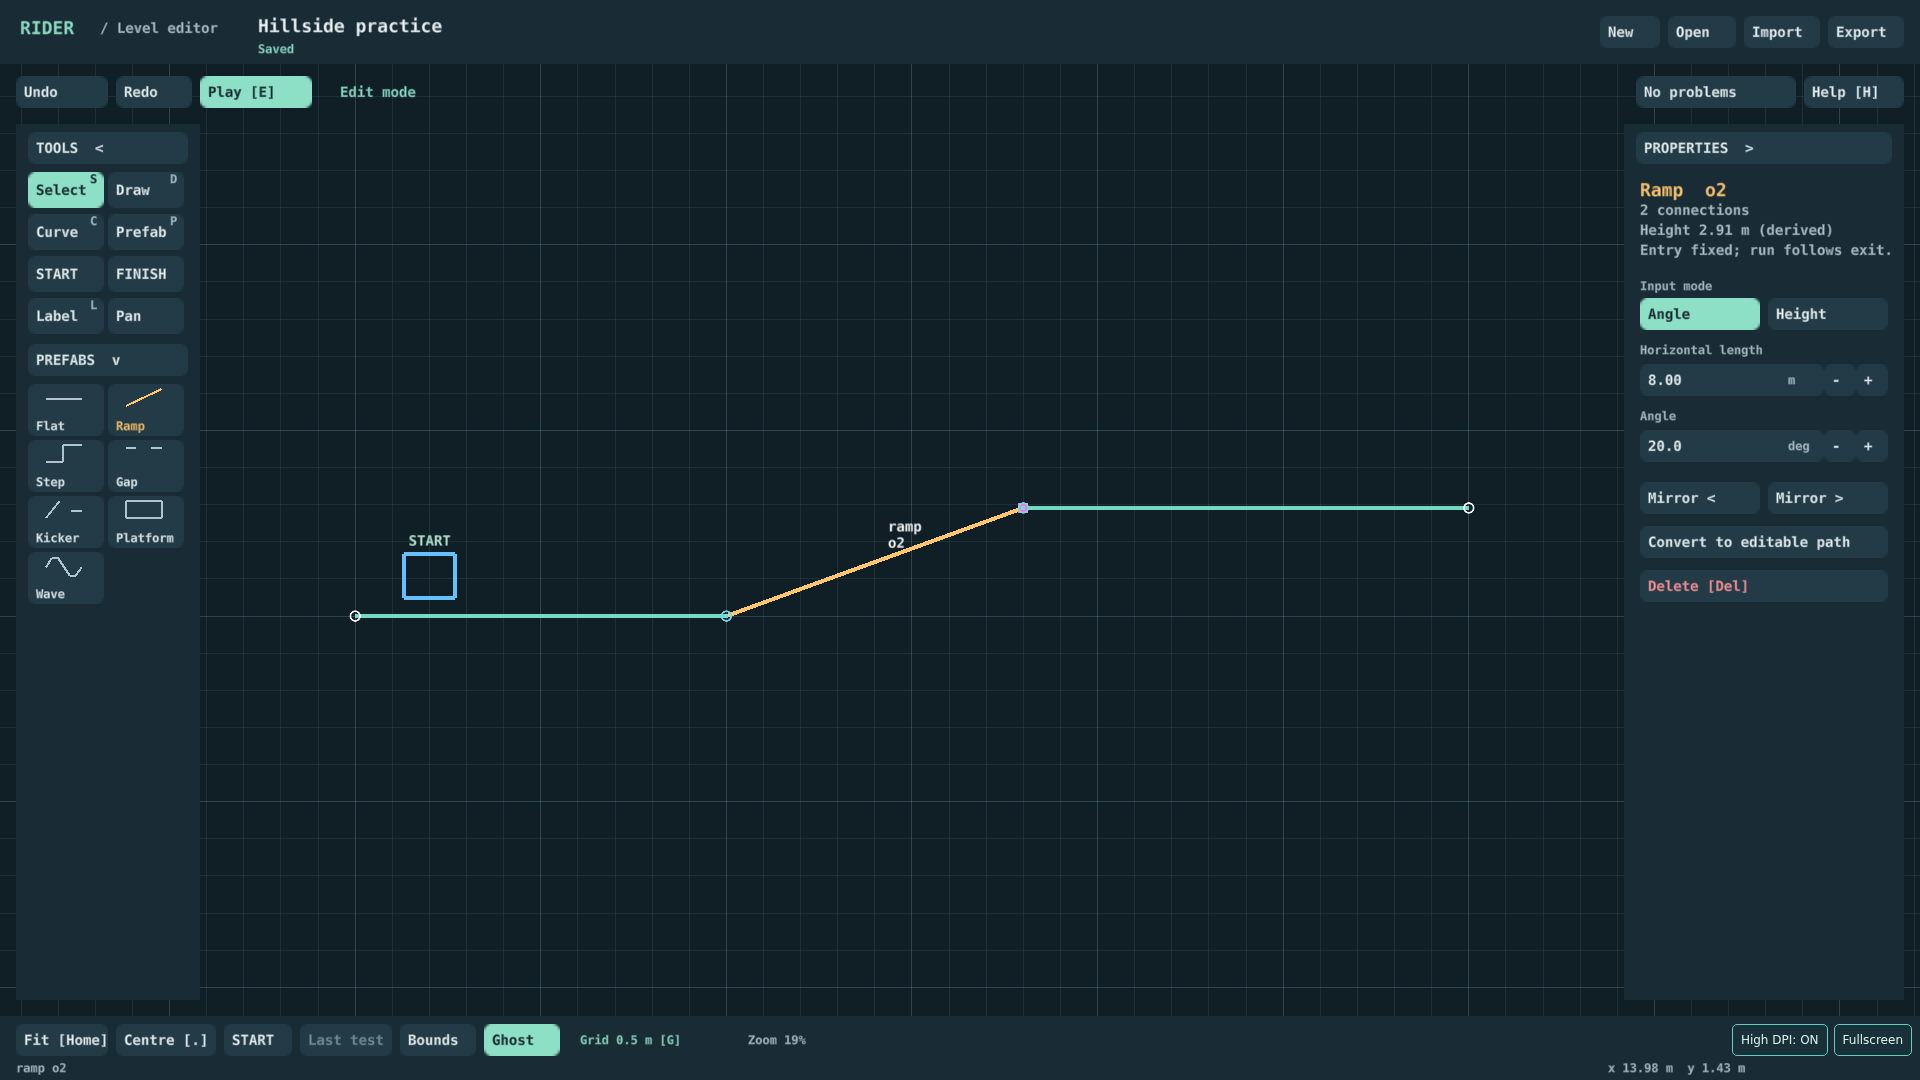
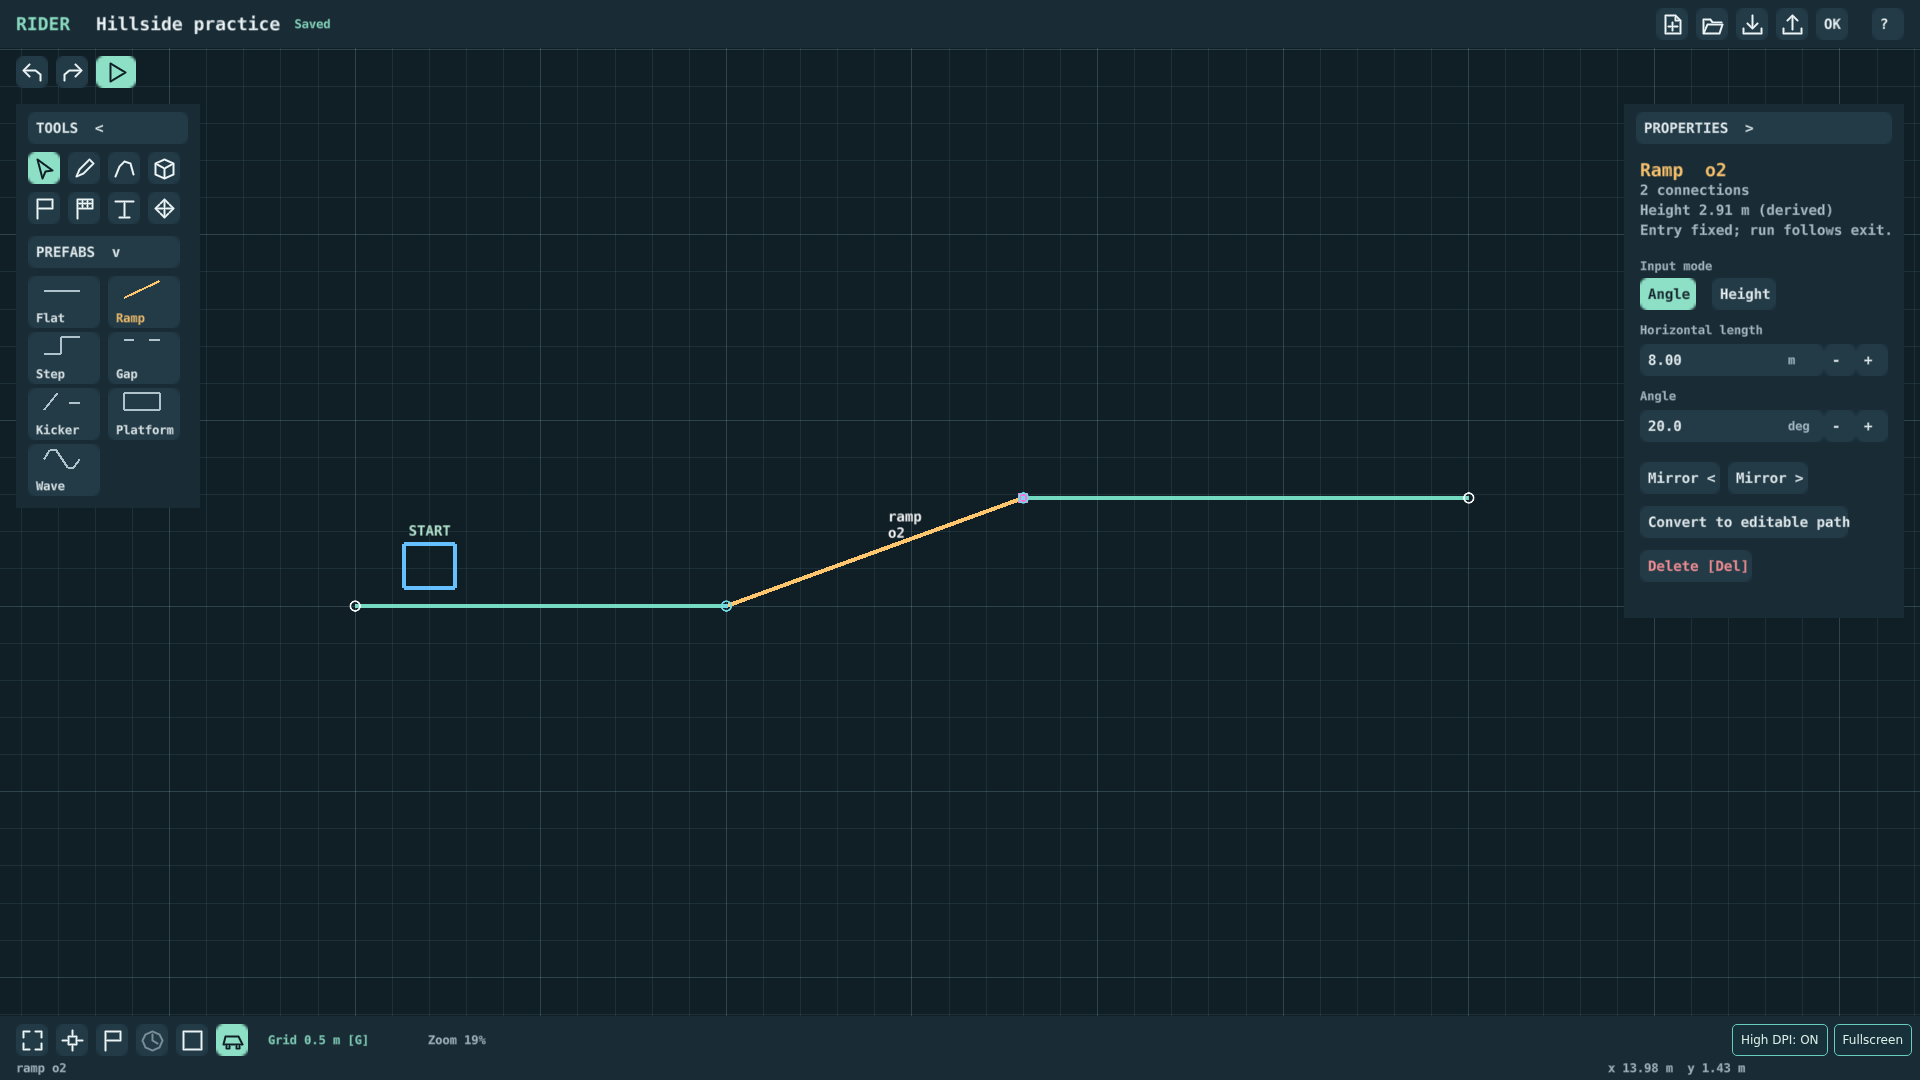
fix(editor): compact chrome and show blocking errors directly

diff --git a/tools/gym/smoke.py b/tools/gym/smoke.py
@@ -114,7 +114,7 @@ if args.case=='le5d':
     print(json.dumps(report));raise SystemExit(0)
 if args.case=='le6':
     report=json.loads((out/'polish-result.json').read_text())
-    assert report['status']=='PASS' and report['source_sha']==sha and report['run_id']==run_id and len(report['cases'])==13
+    assert report['status']=='PASS' and report['source_sha']==sha and report['run_id']==run_id and len(report['cases'])==14
     print(json.dumps(report));raise SystemExit(0)
 if args.case=='le1a':
     report=json.loads((out/'custom-result.json').read_text())

diff --git a/STATUS.md b/STATUS.md
@@ -6,7 +6,7 @@ Updated 2026-10-20. The only source for current progress, open acceptance and bl
 
 ## Now
 
-- **Editor A1b [#171](https://github.com/bongohorse/rider/issues/171) (Claudio GO 2026-10-21: “wenn du fertig bist mach weiter mit dem nächsten task”):** owner Codex, branch `feat/171-editor-ui`. Dependency #183 approved after the command-group swap, approval recorded in its issue; [PR #253](https://github.com/bongohorse/rider/pull/253) merged as `f34666d` with current-head required PASS; #183 closed. Approved layout implemented: fixed-size/collapsible panels, numeric fields/steps/inline errors, thumbnails/tooltips, selection/connection cues and DPR-aware chrome; existing editing/storage semantics retained. Pinned debug HTML5 builds and all eight editor suites PASS locally (le2/le3/le4/le5a/le5b/le5c/le5d/le6; le6 now includes four A1b cases and DPR 2). Baseline check + 55 bootstrap, 29 Python CI and 71 Node CI/mobile tests PASS. Measured unchanged limits: 628/640 GUI nodes; 800-segment fixture Edit/Play/replay sprites 804/806/810 of 1024. Layout screenshots (including DPR 2) inspected and retained in docs/editor-a/runtime; footer/browser controls no longer cover the cursor row. Pending numeric entry + step is one Undo commit, with a regression for prefab parameters and START speed; invalid pending input refuses the step. Final diff self-review complete; no independent review claimed. [PR #254](https://github.com/bongohorse/rider/pull/254) merged after exact-head required PASS. Main deployment exposed a reproducible unreadable-index library sync timeout (run 39611280521), fixed in [PR #255](https://github.com/bongohorse/rider/pull/255), owner Codex, branch `fix/171-ui-library-observation`, merged as f966acb after exact-head required PASS. The expanded library protocol also passes on Main; final CI/public deployment evidence is linked from that PR. The UI/debug observer now refreshes its library snapshot on document/save transitions or explicit library actions instead of rereading unreadable files every frame; the pinned loader requests IndexedDB sync on file close. Storage semantics and test assertions remain intact; the unreadable-index case additionally waits for idle sync with Open visible. Follow-up baseline check + 55 bootstrap, 29 Python CI and 71 Node CI/mobile tests PASS; all 12 le4 cases including unreadable-index sync with Open visible PASS on a pinned debug build (base f2d15ce plus working diff). Extended le6 also passes all 13 cases on the same local bundle, including both desktop viewports and DPR 2. Completed diff self-review, no independent review claimed. Human/device drive test NOT RUN. Stop after this slice for Claudio's build → select → parameter edit → drive test; #172/#173 have no GO.
+- **Editor A1b [#171](https://github.com/bongohorse/rider/issues/171) (Claudio GO 2026-10-21: “wenn du fertig bist mach weiter mit dem nächsten task”):** owner Codex; current feedback branch `fix/171-ui-feedback` (2026-10-21 GO: Claudio’s compact-UI and visible-error requests). Follow-up scope: single-line header with problems/help, content-height sidebars, compact icon controls, Ghost off by default, red blocking-error button, immediate source flash and an unobscured blocked-Play error banner. Feedback implemented with wheel/drag scrollbars for both panels (Claudio’s follow-up), stable desktop control sizes at 1280×480 and editable canvas below short panels. Baseline check + 55 bootstrap, 29 Python CI and 71 Node CI/mobile tests PASS; updated le6 all 14 cases PASS on the pinned working-diff build, plus le2/le4 PASS. Refreshed actual runtime captures include both desktop sizes, DPR 2, blocked Play and both overflowing sidebars. GUI 628/640 and 800-segment Edit/Play/replay sprite budgets 804/806/810 remain measured unchanged. Diff self-review completed; no independent review claimed. Current-head regression/CI and delivery evidence is tracked in the follow-up PR linked from #171; practical acceptance remains open. Original implementation branch `feat/171-editor-ui`. Dependency #183 approved after the command-group swap, approval recorded in its issue; [PR #253](https://github.com/bongohorse/rider/pull/253) merged as `f34666d` with current-head required PASS; #183 closed. Approved layout implemented: fixed-size/collapsible panels, numeric fields/steps/inline errors, thumbnails/tooltips, selection/connection cues and DPR-aware chrome; existing editing/storage semantics retained. Pinned debug HTML5 builds and all eight editor suites PASS locally (le2/le3/le4/le5a/le5b/le5c/le5d/le6; le6 now includes four A1b cases and DPR 2). Baseline check + 55 bootstrap, 29 Python CI and 71 Node CI/mobile tests PASS. Measured unchanged limits: 628/640 GUI nodes; 800-segment fixture Edit/Play/replay sprites 804/806/810 of 1024. Layout screenshots (including DPR 2) inspected and retained in docs/editor-a/runtime; footer/browser controls no longer cover the cursor row. Pending numeric entry + step is one Undo commit, with a regression for prefab parameters and START speed; invalid pending input refuses the step. Final diff self-review complete; no independent review claimed. [PR #254](https://github.com/bongohorse/rider/pull/254) merged after exact-head required PASS. Main deployment exposed a reproducible unreadable-index library sync timeout (run 39611280521), fixed in [PR #255](https://github.com/bongohorse/rider/pull/255), owner Codex, branch `fix/171-ui-library-observation`, merged as f966acb after exact-head required PASS. The expanded library protocol also passes on Main; final CI/public deployment evidence is linked from that PR. The UI/debug observer now refreshes its library snapshot on document/save transitions or explicit library actions instead of rereading unreadable files every frame; the pinned loader requests IndexedDB sync on file close. Storage semantics and test assertions remain intact; the unreadable-index case additionally waits for idle sync with Open visible. Follow-up baseline check + 55 bootstrap, 29 Python CI and 71 Node CI/mobile tests PASS; all 12 le4 cases including unreadable-index sync with Open visible PASS on a pinned debug build (base f2d15ce plus working diff). Extended le6 also passes all 13 cases on the same local bundle, including both desktop viewports and DPR 2. Completed diff self-review, no independent review claimed. Human/device drive test NOT RUN. Stop after this slice for Claudio's build → select → parameter edit → drive test; #172/#173 have no GO.
 
 
 - **Editor A1a [#183](https://github.com/bongohorse/rider/issues/183) (Claudio GO 2026-10-21):** start Milestone 7, Editor A – UI & Recovery; owner Codex, branch `docs/183-editor-layout`. Dependency #129 is closed as completed: Claudio's acceptance/closure decision is recorded in its Closure section (2026-10-21), without new trial observations or timings. Four PNG/SVG layout previews (build / selected Ramp at 1280×720 and 1920×1080), reproducible vector source and the screen-layout specification are in [PR #253](https://github.com/bongohorse/rider/pull/253). Visual inspection of all four, exact PNG dimensions, text contrast, local links, bootstrap check + 55 tests, 29 Python CI tests and 71 Node CI/mobile tests PASS. Layout revision requested by Claudio (2026-10-21): swap the command groups between rows/positions; New/Open/Import/Export now occupy the upper right, Undo/Redo/Play the second row left, in all four previews and the specification. GUI allocation is an estimate (606/640), not a runtime measurement. No game/GUI code changed. Final diff self-review complete; no independent review claimed. CI evidence is tracked in the PR; Claudio approved the revised layout and instructed the next task on 2026-10-21; approval recorded on #183. Merged as `f34666d` with green required; #183 closed. A1b GO is recorded above. This explicit GO supersedes the earlier Editor A scheduling hold for this task only.

diff --git a/docs/contracts/level-editor.md b/docs/contracts/level-editor.md
@@ -78,7 +78,7 @@ A start speed is an explicit option. Invalid positions (inside geometry, no surf
 **R18 Tool scope and usability.** Keep the in-game Defold/Lua/GUI direction and the small HTML file helper. The editor research in #118 is not approval for Qt/Electron, a universal editor, plugins, multiplayer editing or a framework rewrite. Test the actual build → drive → change → Undo → save → reopen workflow with Claudio. Good navigation, readable controls/units, clear selection, cancellable previews and actionable warnings take precedence over a larger asset library. Reusable custom templates later need an explicit independent-copy versus linked-instance policy; no implicit retroactive changes to old courses.
 
 ## Screen layout (desktop, Defold GUI)
-- **Header:** level name and persistence status on the left; New · Open (my levels / templates) · Import · Export on the right. **Command row:** Undo · Redo · **Play [E]** on the left; problems · Help on the right (A1b, #171).
+- **Header:** level name and persistence status on one line; New · Open (my levels / templates) · Import · Export icons, problems and Help on the right. **Command row:** compact Undo · Redo · **Play [E]** icons on the left; no redundant Edit mode label (Claudio feedback to A1b, #171).
 - **Left tool palette:** Select (S) · Draw (D) · Curve (C) · Prefab (P) · START · FINISH · Label (L, LE6b) · Pan
 - **Right panel:** properties of the selection (numeric fields: x, y, angle, length, height…), or level properties (name, start speed) when nothing is selected
 - **Bottom status:** View row (Fit, Centre, START, Last test, Bounds; LE6a; Ghost, Help; LE6b) · cursor x/y in metres · active snaps · zoom; the warning count (click to list) sits in the top bar
@@ -188,6 +188,9 @@ Implements the revised [#183](https://github.com/bongohorse/rider/issues/183) la
 - Tooltips appear after 500 ms of hover or field focus and stay inside the uncovered workspace. Prefab cards use small GUI line diagrams. Free ends have hollow rings; connected joints add a square centre and cyan tint. Selection uses amber; placement previews are dashed mint and explicitly say `Preview`. Readouts use body-size text, wrap and clamp within the uncovered canvas. Rounded control masks and end rings are generated once as tiny GUI textures, with no sprite components or external artwork.
 - Help, Open, compatibility and problem lists reuse the same UI pool and capture underlying edits. Clicking a problem row closes the list before selecting/centring its source; the message remains visible. Open is also offered inside the problem list. The help body scrolls if it does not fit. New document framing waits for the new edit world's mapping, then places START inside the free workspace. Collapse, scrolling and these view changes do not change the source or Undo history.
 - The editor sends the pinned default renderer's `clear_color` message for the petrol canvas and restores the configured game clear colour on exit. It does not replace the renderer, add a world, change physics or run a second tick loop.
+- **Claudio's 2026-10-21 feedback revision:** the header is 48 px high, with title/status on one line and problems/help beside the file icons. Undo/Redo/Play use compact icons in the next row; there is no Edit mode label. Familiar file/tool/navigation actions use code-native 24 px line icons in 32 px controls with text tooltips; prefab thumbnails keep their names and parameter fields keep labels/units. Text action buttons fit their labels instead of filling the inspector width.
+- Both sidebars end after their content. Their headings stay fixed; if the body exceeds the window height, it scrolls by wheel or a draggable scrollbar. Hidden rows take no input; areas below a short sidebar remain visible and editable. Short desktop windows retain control sizes (verified at 1280×480) rather than shrinking the UI to fit the height. Widths below the declared desktop sizes retain the existing scaled desktop fallback; no mobile authoring acceptance is claimed.
+- A blocking error makes the header problem control red. A newly reported located error flashes its source without changing selection/history. Blocked Play selects and centres the first error's source when known, flashes the source geometry/START and shows a direct, wrapped red `Cannot play: …` banner in the workspace. Unlocated errors still show the banner and never invent a source. The banner follows the current error, clears once fixed, and never carries into another document; Undo restoring an error restores attention. Ghost starts **off** and remains an explicit view toggle.
 - Open and debug inspection reuse a library snapshot between document/save transitions; explicit Open/delete actions refresh it. An unreadable index must not be reread every frame: the pinned loader requests an IndexedDB sync even when a read closes a file (see Storage below). `le4` checks idle sync with that error both in the editor and with Open visible, while retaining the index/file preservation assertions.
 
 **Measured budget in the extended `le6` browser protocol** (not a promise about untested device performance):
@@ -539,7 +542,7 @@ Second part of LE6 ([#129](https://github.com/bongohorse/rider/issues/129)). Imp
 - **Vehicle silhouette (R10):**
   - **Ghost:** with the Select tool over empty canvas inside the free area, a faint upright vehicle (chassis, two wheels, rider: 6 GUI boxes) shows where **F** would start a test run (Shift: **Shift+F** drop here). It uses `editor_doc.test_start`, the same rule as F, so F starts exactly at the ghost (`le6`).
   - A refused position shows the ghost in red at the cursor with the reason in the readout (`F: refused (no surface below the cursor)`).
-  - The ghost is hidden over objects, while dragging, with a field, the Open dialog, the warning list or help open, and when **Ghost** in the View row is off (default on; view only).
+  - The ghost is hidden over objects, while dragging, with a field, the Open dialog, the warning list or help open, and when **Ghost** in the View row is off (default off; view only).
   - The last launched test start (LE6a) is shown as a fainter silhouette.
 - **Readouts:** every position reads `x … m  y … m` (curve anchors, prefab entry/exit, placement preview, labels). A hull shows its extent. Dragging START or FINISH shows the position; for START it also shows the clearance check Play uses (`| overlaps line o1 (Play blocked)`) before release.
 - **Budget (R7), measured in `le6`:** 596 of 640 `max_nodes` with 12 templates (+23 over LE6a: 2 silhouettes of 6 boxes, the help overlay with 5, the Ghost and Help buttons and the Label tool). The View row now ends at 600 px against the page buttons at 1092 px (1280 × 720), 391 against 656 (844 × 390) and 183 against 202 (390 × 844).

diff --git a/docs/editor-a/runtime/README.md b/docs/editor-a/runtime/README.md
@@ -1,8 +1,8 @@
 # Implemented Editor A UI
 
-Actual HTML5 debug screenshots for [#171](https://github.com/bongohorse/rider/issues/171), captured by the extended `le6` browser protocol. The [approved static designs](../README.md) remain separate. Behaviour and measured budgets are specified in the [editor contract](../../contracts/level-editor.md#editor-a1b-implementation-171).
+Actual HTML5 debug screenshots for [#171](https://github.com/bongohorse/rider/issues/171), captured by the extended `le6` browser protocol. These captures include Claudio’s 2026-10-21 compact-header, sidebar, icon and error feedback. The [original approved static designs](../README.md) remain separate. Behaviour and measured budgets are specified in the [editor contract](../../contracts/level-editor.md#editor-a1b-implementation-171).
 
-**Contents:** [Desktop layouts](#desktop-layouts) · [HiDPI and scrolling](#hidpi-and-scrolling) · [Capture identity](#capture-identity)
+**Contents:** [Desktop layouts](#desktop-layouts) · [HiDPI and scrolling](#hidpi-and-scrolling) · [Errors and short windows](#errors-and-short-windows) · [Capture identity](#capture-identity)
 
 ## Desktop layouts
 
@@ -26,6 +26,16 @@ The Kicker's seventh parameter is reached by scrolling its inspector. The wheel 
 
 ![Seven-parameter inspector](editor-a-seven-parameters.png)
 
+## Errors and short windows
+
+A blocking error makes the header indicator red and flashes its source. Play immediately shows the error in a red banner and focuses its source, without requiring a second click.
+
+![Blocked Play and error source](editor-a-blocked-play.png)
+
+At 1280×480, both sidebar bodies scroll by wheel or by dragging their scrollbars. Controls retain their desktop size. At the normal heights, short sidebars stop after their content and leave the canvas below them editable.
+
+![Both sidebars scroll at 1280 by 480](editor-a-scrollbars-1280x480.png)
+
 ## Capture identity
 
-Defold 1.14.0 (`a81dbb0478e8b73931dc2d671563204f6ac0ef82`), Playwright Chromium `156.0.8078.4` on Linux. The local debug bundle was built from base `f34666d3dacc8699734a653fdd686916300840ce` plus this task's working UI diff. Capture run `6a9a2a02-5559-4a81-bdf1-ffa381e26bc1`, `tools/gym/smoke.py --bundle artifacts/171-debug-17 --output artifacts/171-le6-17 --case le6`. Build inventory/engine guard and JSON results are retained locally in those artifact directories; PR-head CI independently rebuilds and runs the same protocol. Local working-diff captures are not claimed as committed-head or deployed-build evidence. Pointer/keyboard input is synthetic; these images do not establish physical-device behaviour or Claudio's practical acceptance.
+Defold 1.14.0 (`a81dbb0478e8b73931dc2d671563204f6ac0ef82`), Playwright Chromium `156.0.8078.4` on Linux. The local debug bundle was built from base `c6fed8541110c662f2de479b7bd9ee8a0becb880` plus this task's working UI diff. Capture run `5597e102-4bbc-456b-ba25-d4afa5342593`, `tools/gym/smoke.py --bundle artifacts/171-feedback-debug-verified --output artifacts/171-feedback-verified-le6 --case le6` (14 cases PASS). Build inventory/engine guard and JSON results are retained locally in those artifact directories; PR-head CI independently rebuilds and runs the same protocol. Local working-diff captures are not claimed as committed-head or deployed-build evidence. Pointer/keyboard input is synthetic; these images do not establish physical-device behaviour or Claudio's practical acceptance.

diff --git a/docs/editor-a/README.md b/docs/editor-a/README.md
@@ -2,7 +2,7 @@
 
 Static design proposal for [#183](https://github.com/bongohorse/rider/issues/183), based on Rider `0953bf048a34948542f53c657f278f685835f1fc`. These images are mockups, not screenshots of an implemented editor. The binding target specification, inspection findings, controls, visual tokens and budget estimate are in the [contract's screen-layout section](../contracts/level-editor.md#editor-a1a-layout-proposal-183).
 
-Actual implementation screenshots for #171: [runtime gallery](runtime/README.md).
+The 2026-10-21 compact-header, content-height/scrollbar and direct-error feedback supersedes the corresponding proposal details; the current behavior is specified under the contract’s A1b implementation. Actual implementation screenshots for #171: [runtime gallery](runtime/README.md).
 
 **Contents:** [Build](#build) · [Selected Ramp](#selected-ramp) · [Sources and reproduction](#sources-and-reproduction)
 
